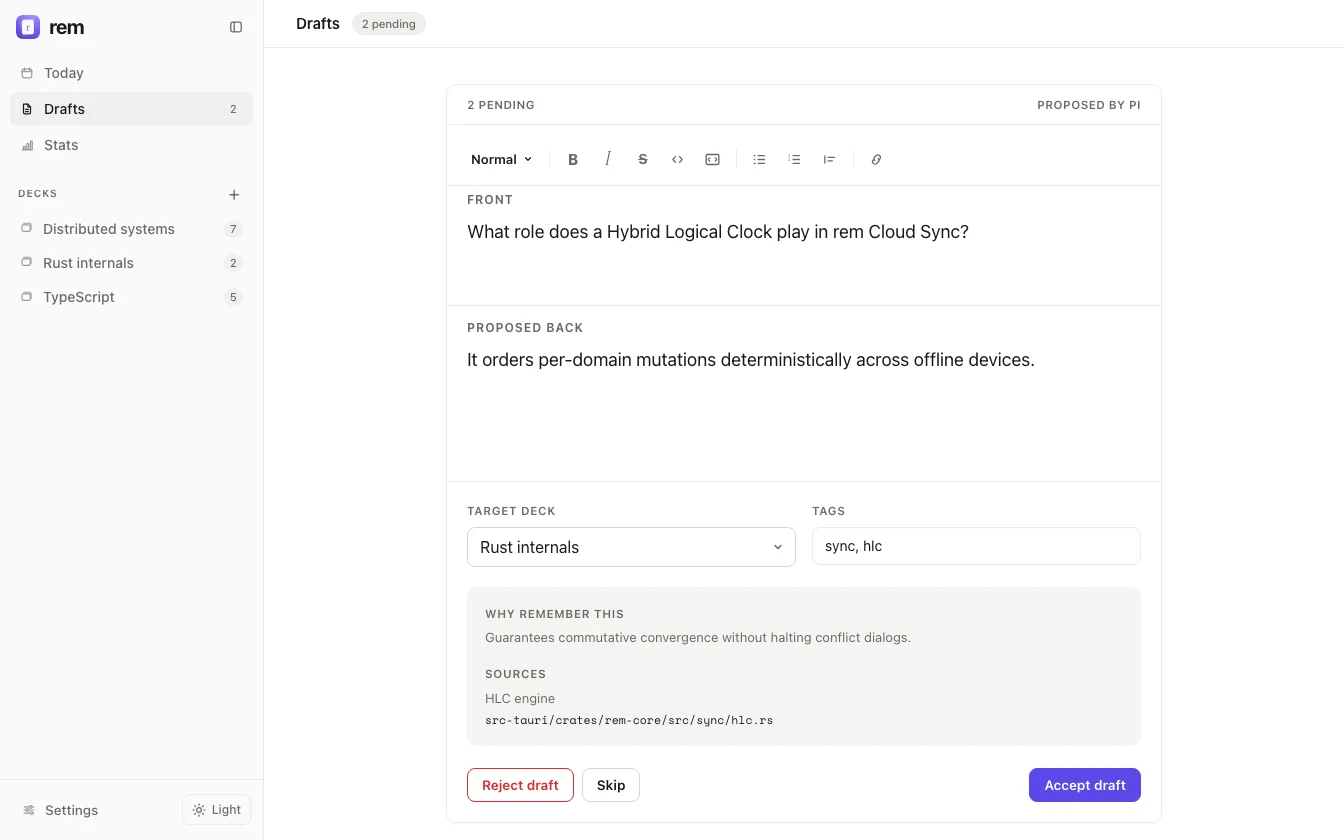
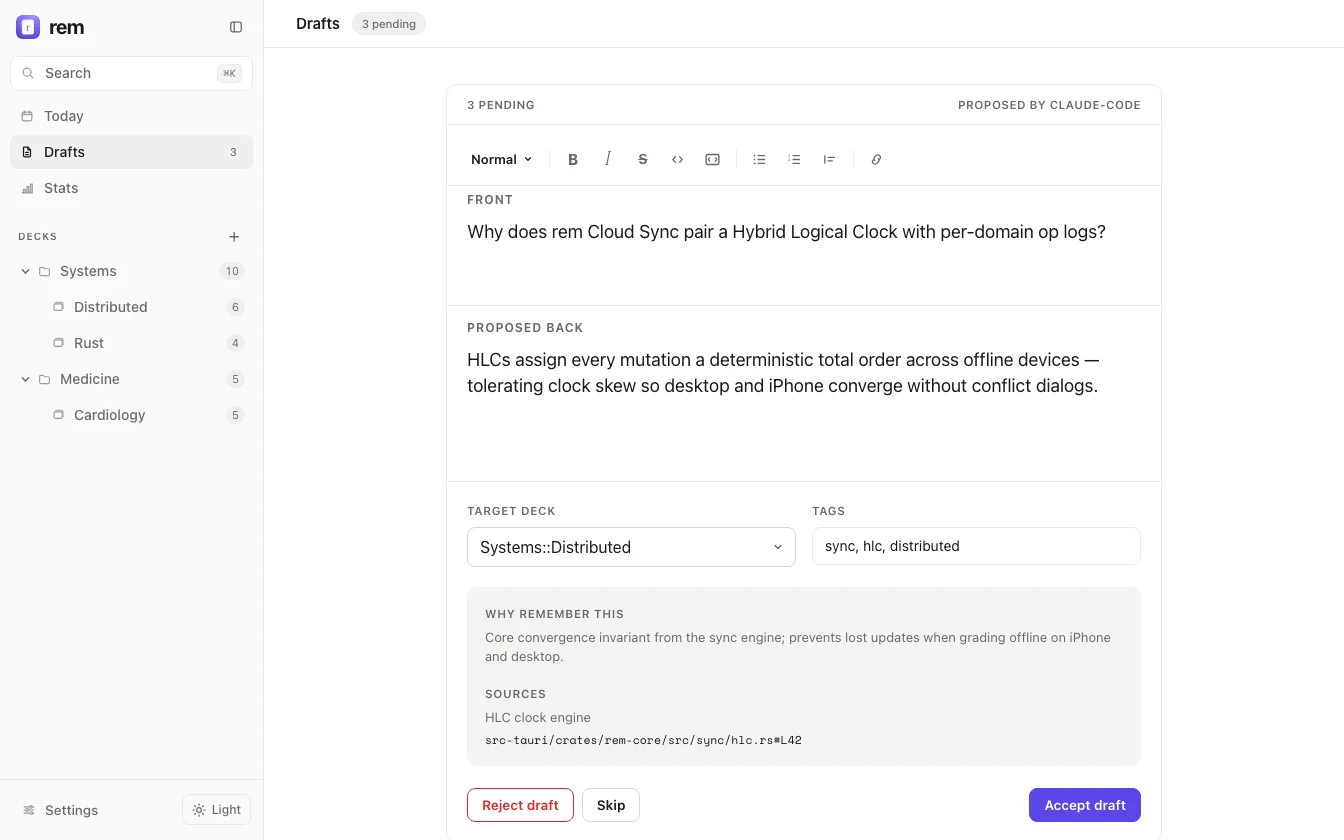
docs(site): refresh Desktop & iPhone screenshots and add Image Occlusion slide (#299)
* docs(site): refresh v0.32 desktop showcase screenshots and add image occlusion

* docs(site): refresh iOS showcase screenshots for v0.32

* docs(site): integrate v0.32 screenshots and 6-slide Image Occlusion showcase

diff --git a/site/index.html b/site/index.html
@@ -107,7 +107,7 @@
                 src="./assets/rem-today.png"
                 width="1200"
                 height="750"
-                alt="rem desktop Today screen showing 14 cards due across 3 decks with deck progress rings and collapsible sidebar"
+                alt="rem desktop Today screen showing 15 cards due across 5 nested decks (Systems::Distributed, Systems::Rust, Medicine::Cardiology), Search ⌘K, 3 pending drafts, and deck progress rings"
               />
             </picture>
           </div>
@@ -121,7 +121,7 @@
                   src="./assets/rem-ios-today.png"
                   width="804"
                   height="1748"
-                  alt="rem iOS companion Today screen showing the same 14 cards due, 10-day streak, 3 decks, native tab bar, and top-right quick capture button"
+                  alt="rem iPhone Today screen showing 18 cards due across 5 nested decks, 12-day streak, native tab bar, and top-right quick capture button"
                 />
               </picture>
             </div>
@@ -524,12 +524,23 @@ JSON
                   type="button"
                   role="tab"
                   class="slide-tab"
+                  id="tab-occlusion"
+                  aria-selected="false"
+                  aria-controls="slide-occlusion"
+                  data-slide="2"
+                >
+                  <span>03</span> Occlusion
+                </button>
+                <button
+                  type="button"
+                  role="tab"
+                  class="slide-tab"
                   id="tab-capture"
                   aria-selected="false"
                   aria-controls="slide-capture"
-                  data-slide="2"
+                  data-slide="3"
                 >
-                  <span>03</span> Capture
+                  <span>04</span> Capture
                 </button>
                 <button
                   type="button"
@@ -538,9 +549,9 @@ JSON
                   id="tab-stats"
                   aria-selected="false"
                   aria-controls="slide-stats"
-                  data-slide="3"
+                  data-slide="4"
                 >
-                  <span>04</span> Stats
+                  <span>05</span> Stats
                 </button>
                 <button
                   type="button"
@@ -549,15 +560,15 @@ JSON
                   id="tab-terminal"
                   aria-selected="false"
                   aria-controls="slide-terminal"
-                  data-slide="4"
+                  data-slide="5"
                 >
-                  <span>05</span> Terminal
+                  <span>06</span> Terminal
                 </button>
               </div>
 
               <div class="slide-nav">
                 <span class="slide-counter" aria-live="polite">
-                  <strong data-slide-current>01</strong> / <span>05</span>
+                  <strong data-slide-current>01</strong> / <span>06</span>
                 </span>
                 <button
                   type="button"
@@ -631,7 +642,7 @@ JSON
                         src="./assets/rem-today.png"
                         width="1200"
                         height="750"
-                        alt="rem desktop Today screen with collapsible sidebar, 14 cards due, and deck progress rings"
+                        alt="rem desktop Today screen with collapsible sidebar, Search ⌘K, 3 pending drafts, 15 cards due across nested Systems and Medicine decks, and progress rings"
                       />
                     </picture>
                   </div>
@@ -650,7 +661,7 @@ JSON
                           src="./assets/rem-ios-today.png"
                           width="804"
                           height="1748"
-                          alt="rem iPhone Today screen showing 14 cards due, 10d streak, and deck list"
+                          alt="rem iPhone Today screen showing 18 cards due, 12d streak, and expanded nested Systems and Medicine subdecks"
                         />
                       </picture>
                     </span>
@@ -669,16 +680,16 @@ JSON
               >
                 <div class="slide-copy">
                   <p class="slide-tag">02 · Focused recall</p>
-                  <h3>Distraction-free review<br />for <em>rich &amp; visual cards.</em></h3>
+                  <h3>Distraction-free review<br />for <em>Cloze, math &amp; provenance.</em></h3>
                   <p>
                     Navigation folds away during review on both desktop and iPhone so attention stays
-                    on the prompt — syntax-highlighted code, native LaTeX math, interactive Image
-                    Occlusion masks, audio clips, and retained source provenance.
+                    on the prompt — Cloze deletions with sibling burying, native LaTeX math,
+                    syntax-highlighted code, inline audio, and retained source provenance.
                   </p>
                   <ul class="check-list">
-                    <li><span>✓</span> Interactive Image Occlusion reveal &amp; spoiler-safe zoom on Desktop &amp; iOS</li>
-                    <li><span>✓</span> Cloze deletions with sibling burying, LaTeX math, audio &amp; code blocks</li>
-                    <li><span>✓</span> Inspect retained provenance, edit mid-session, suspend, or undo grades</li>
+                    <li><span>✓</span> Cloze deletions with sibling burying, KaTeX &amp; native iOS LaTeX math</li>
+                    <li><span>✓</span> Expanded <em>Source &amp; rationale</em> provenance stays attached during review</li>
+                    <li><span>✓</span> Shared FSRS-7 grade dock with mid-session edit, suspend, and undo</li>
                   </ul>
                   <div class="surface-badges">
                     <span class="surface-badge is-dark">Dark mode</span>
@@ -692,7 +703,7 @@ JSON
                     <div class="window-bar window-bar-dark" aria-hidden="true">
                       <span class="traffic red"></span><span class="traffic yellow"></span
                       ><span class="traffic green"></span>
-                      <span class="window-title">rem · TypeScript Review</span>
+                      <span class="window-title">rem · Systems::Distributed</span>
                     </div>
                     <picture>
                       <source type="image/webp" srcset="./assets/rem-review-dark.webp" />
@@ -700,7 +711,7 @@ JSON
                         src="./assets/rem-review-dark.png"
                         width="1200"
                         height="750"
-                        alt="Dark-mode desktop review of a TypeScript satisfies card with syntax highlighting and FSRS grading intervals"
+                        alt="Dark-mode desktop review of a Cloze card in Systems::Distributed showing KaTeX quorum math (R + W > N), expanded Source &amp; rationale provenance, and FSRS-7 grading intervals"
                       />
                     </picture>
                   </div>
@@ -719,7 +730,7 @@ JSON
                           src="./assets/rem-ios-review-dark.png"
                           width="804"
                           height="1748"
-                          alt="Dark-mode iPhone review of the same TypeScript satisfies card with syntax-highlighted code and 4-button FSRS-7 grade dock"
+                          alt="Dark-mode iPhone review of an Amdahl's Law Cloze card in Distributed showing native LaTeX fraction rendering, tags, expanded Source &amp; rationale provenance, and 4-button FSRS-7 grade dock"
                         />
                       </picture>
                     </span>
@@ -727,31 +738,99 @@ JSON
                 </div>
               </article>
 
-              <!-- Slide 03: Capture & Draft Approval -->
+              <!-- Slide 03: Image Occlusion -->
+              <article
+                class="slide"
+                id="slide-occlusion"
+                role="tabpanel"
+                aria-labelledby="tab-occlusion"
+                data-slide-panel="2"
+                aria-hidden="true"
+              >
+                <div class="slide-copy">
+                  <p class="slide-tag">03 · Image Occlusion</p>
+                  <h3>Turn diagrams into recall.<br /><em>Draw masks once, study anywhere.</em></h3>
+                  <p>
+                    Author rectangle and ellipse masks on any diagram in the desktop SVG canvas or
+                    native iPhone editor, or import Anki 23.10+ and Image Occlusion Enhanced
+                    <code>.apkg</code> decks — complete with interactive reveal and spoiler-safe zoom.
+                  </p>
+                  <ul class="check-list">
+                    <li><span>✓</span> Active highlighted <code>?</code> mask with muted <em>Hide All</em> siblings until reveal</li>
+                    <li><span>✓</span> Desktop SVG canvas &amp; native iPhone editor with spoiler-safe lightbox zoom</li>
+                    <li><span>✓</span> Imports Anki 23.10+ built-in &amp; Image Occlusion Enhanced <code>.apkg</code> decks</li>
+                  </ul>
+                  <div class="surface-badges">
+                    <span class="surface-badge">Desktop SVG Occlusion</span>
+                    <span class="surface-badge">iPhone Lightbox Zoom</span>
+                  </div>
+                </div>
+
+                <div class="slide-stage">
+                  <div class="stage-glow"></div>
+                  <div class="stage-desktop">
+                    <div class="window-bar" aria-hidden="true">
+                      <span class="traffic red"></span><span class="traffic yellow"></span
+                      ><span class="traffic green"></span>
+                      <span class="window-title">rem · Systems::Networking</span>
+                    </div>
+                    <picture>
+                      <source type="image/webp" srcset="./assets/rem-occlusion.webp" />
+                      <img
+                        src="./assets/rem-occlusion.png"
+                        width="1200"
+                        height="750"
+                        alt="rem desktop Image Occlusion review on a TCP Segment Header diagram in Systems::Networking showing an active indigo question-mark mask, four muted Hide-All masks, and Show answer button"
+                      />
+                    </picture>
+                  </div>
+
+                  <button
+                    type="button"
+                    class="stage-phone phone-frame"
+                    data-phone-spotlight
+                    aria-label="Inspect iPhone Image Occlusion review screen"
+                  >
+                    <span class="phone-island" aria-hidden="true"></span>
+                    <span class="phone-screen">
+                      <picture>
+                        <source type="image/webp" srcset="./assets/rem-ios-occlusion.webp" />
+                        <img
+                          src="./assets/rem-ios-occlusion.png"
+                          width="804"
+                          height="1748"
+                          alt="rem iPhone Image Occlusion review on a Cardiac Conduction System diagram in Cardiology showing an active indigo question-mark mask, four muted masks, zoom button, and Show answer dock"
+                        />
+                      </picture>
+                    </span>
+                  </button>
+                </div>
+              </article>
+
+              <!-- Slide 04: Capture & Draft Approval -->
               <article
                 class="slide"
                 id="slide-capture"
                 role="tabpanel"
                 aria-labelledby="tab-capture"
-                data-slide-panel="2"
+                data-slide-panel="3"
                 aria-hidden="true"
               >
                 <div class="slide-copy">
-                  <p class="slide-tag">03 · Capture &amp; approval</p>
-                  <h3>Approve agent drafts.<br /><em>Draw masks or import on the go.</em></h3>
+                  <p class="slide-tag">04 · Capture &amp; approval</p>
+                  <h3>Approve agent drafts.<br /><em>Capture Cloze or import on the go.</em></h3>
                   <p>
                     Triage source-grounded AI proposals in Desktop Drafts or the
-                    <code>rem draft review</code> TUI, draw Image Occlusion masks on the SVG canvas,
-                    or tap <strong>+</strong> on iPhone to create cards or import Anki
-                    <code>.apkg</code> decks directly.
+                    <code>rem draft review</code> TUI, or tap <strong>+</strong> on iPhone to author
+                    Cloze and Image Occlusion cards or import Anki <code>.apkg</code> decks directly.
                   </p>
                   <ul class="check-list">
                     <li><span>✓</span> Front-first triage (Desktop &amp; <code>rem draft review</code>) with retained provenance</li>
-                    <li><span>✓</span> Desktop SVG canvas &amp; native iPhone editor for Image Occlusion &amp; Photos</li>
+                    <li><span>✓</span> Paper-canvas iPhone editor with live Cloze count, <code>Occlude</code> &amp; <code>Preview</code> pills</li>
                     <li><span>✓</span> Direct Anki <code>.apkg</code> import (23.10+ &amp; IO Enhanced) on Desktop, CLI &amp; iOS</li>
                   </ul>
                   <div class="surface-badges">
-                    <span class="surface-badge">Drafts + SVG Occlusion</span>
+                    <span class="surface-badge">Desktop Drafts Inbox</span>
                     <span class="surface-badge">iPhone Capture + .apkg</span>
                   </div>
                 </div>
@@ -770,7 +849,7 @@ JSON
                         src="./assets/rem-draft-approval.png"
                         width="1344"
                         height="840"
-                        alt="rem desktop Drafts inbox showing an agent proposal with rationale, source path, and Accept or Reject controls"
+                        alt="rem desktop Drafts inbox showing 3 pending agent proposals from claude-code for Systems::Distributed with Hybrid Logical Clock rationale, hlc.rs source locator, tags, and Reject, Skip, or Accept controls"
                       />
                     </picture>
                   </div>
@@ -789,7 +868,7 @@ JSON
                           src="./assets/rem-ios-capture.png"
                           width="804"
                           height="1748"
-                          alt="rem iPhone Quick Capture paper-canvas Markdown editor with deck picker and tag chips"
+                          alt="rem iPhone Quick Capture paper-canvas editor for Systems::Distributed with Raft Cloze deletions, Creates 2 cloze cards badge, Occlude and Preview pills, tag chips, and bottom formatting toolbar"
                         />
                       </picture>
                     </span>
@@ -797,17 +876,17 @@ JSON
                 </div>
               </article>
 
-              <!-- Slide 04: Stats -->
+              <!-- Slide 05: Stats -->
               <article
                 class="slide"
                 id="slide-stats"
                 role="tabpanel"
                 aria-labelledby="tab-stats"
-                data-slide-panel="3"
+                data-slide-panel="4"
                 aria-hidden="true"
               >
                 <div class="slide-copy">
-                  <p class="slide-tag">04 · Actionable insight</p>
+                  <p class="slide-tag">05 · Actionable insight</p>
                   <h3>Watch your recall<br />and <em>rhythm compound.</em></h3>
                   <p>
                     Track daily review activity, recall rate, active streaks, grade distribution,
@@ -839,7 +918,7 @@ JSON
                         src="./assets/rem-stats.png"
                         width="1200"
                         height="750"
-                        alt="rem desktop Stats screen showing 99 reviews, 90% recall rate, 10-day streak, 30-day activity bars, and deck breakdown"
+                        alt="rem desktop Stats screen showing 248 reviews, 91% recall rate, 12-day streak, 23 active days, 30-day review activity bars, grade distribution, and nested deck breakdown"
                       />
                     </picture>
                   </div>
@@ -858,7 +937,7 @@ JSON
                           src="./assets/rem-ios-stats.png"
                           width="804"
                           height="1748"
-                          alt="rem iPhone Stats screen showing matching 99 reviews, 90% recall rate, 10-day streak, and grade distribution"
+                          alt="rem iPhone Stats screen showing 276 reviews, 92% recall rate, 12-day streak, 27 active days, 30-day native Swift Charts activity bars, and grade distribution"
                         />
                       </picture>
                     </span>
@@ -866,17 +945,17 @@ JSON
                 </div>
               </article>
 
-              <!-- Slide 05: Terminal + Sync -->
+              <!-- Slide 06: Terminal + Sync -->
               <article
                 class="slide"
                 id="slide-terminal"
                 role="tabpanel"
                 aria-labelledby="tab-terminal"
-                data-slide-panel="4"
+                data-slide-panel="5"
                 aria-hidden="true"
               >
                 <div class="slide-copy">
-                  <p class="slide-tag">05 · Terminal + Cloud Sync v1.1</p>
+                  <p class="slide-tag">06 · Terminal + Cloud Sync v1.1</p>
                   <h3>Lightweight in the shell.<br /><em>Full richness on Desktop &amp; iPhone.</em></h3>
                   <p>
                     <code>rem study</code> brings lightweight text and Markdown review to your
@@ -920,7 +999,7 @@ JSON
                           src="./assets/rem-ios-review-dark.png"
                           width="804"
                           height="1748"
-                          alt="rem iPhone dark-mode review using the same FSRS-7 StudySession as rem study"
+                          alt="rem iPhone dark-mode review of an Amdahl's Law Cloze card using the same FSRS-7 StudySession as rem study"
                         />
                       </picture>
                     </span>
@@ -936,6 +1015,7 @@ JSON
                 <button type="button" class="slide-dot" data-slide="2" tabindex="-1"></button>
                 <button type="button" class="slide-dot" data-slide="3" tabindex="-1"></button>
                 <button type="button" class="slide-dot" data-slide="4" tabindex="-1"></button>
+                <button type="button" class="slide-dot" data-slide="5" tabindex="-1"></button>
               </div>
               <p class="stage-hint">
                 <span>Click the iPhone to spotlight</span>

diff --git a/site/styles.css b/site/styles.css
@@ -53,6 +53,7 @@
 }
 
 html {
+  overflow-x: clip;
   scroll-padding-top: 90px;
 }
 
@@ -1264,12 +1265,14 @@ h2 em,
 }
 
 .check-list li {
-  display: flex;
-  align-items: baseline;
-  gap: 10px;
+  position: relative;
+  padding-left: 22px;
 }
 
-.check-list span {
+.check-list li > span:first-child {
+  position: absolute;
+  left: 0;
+  top: 0;
   color: var(--purple);
   font-weight: 700;
 }
